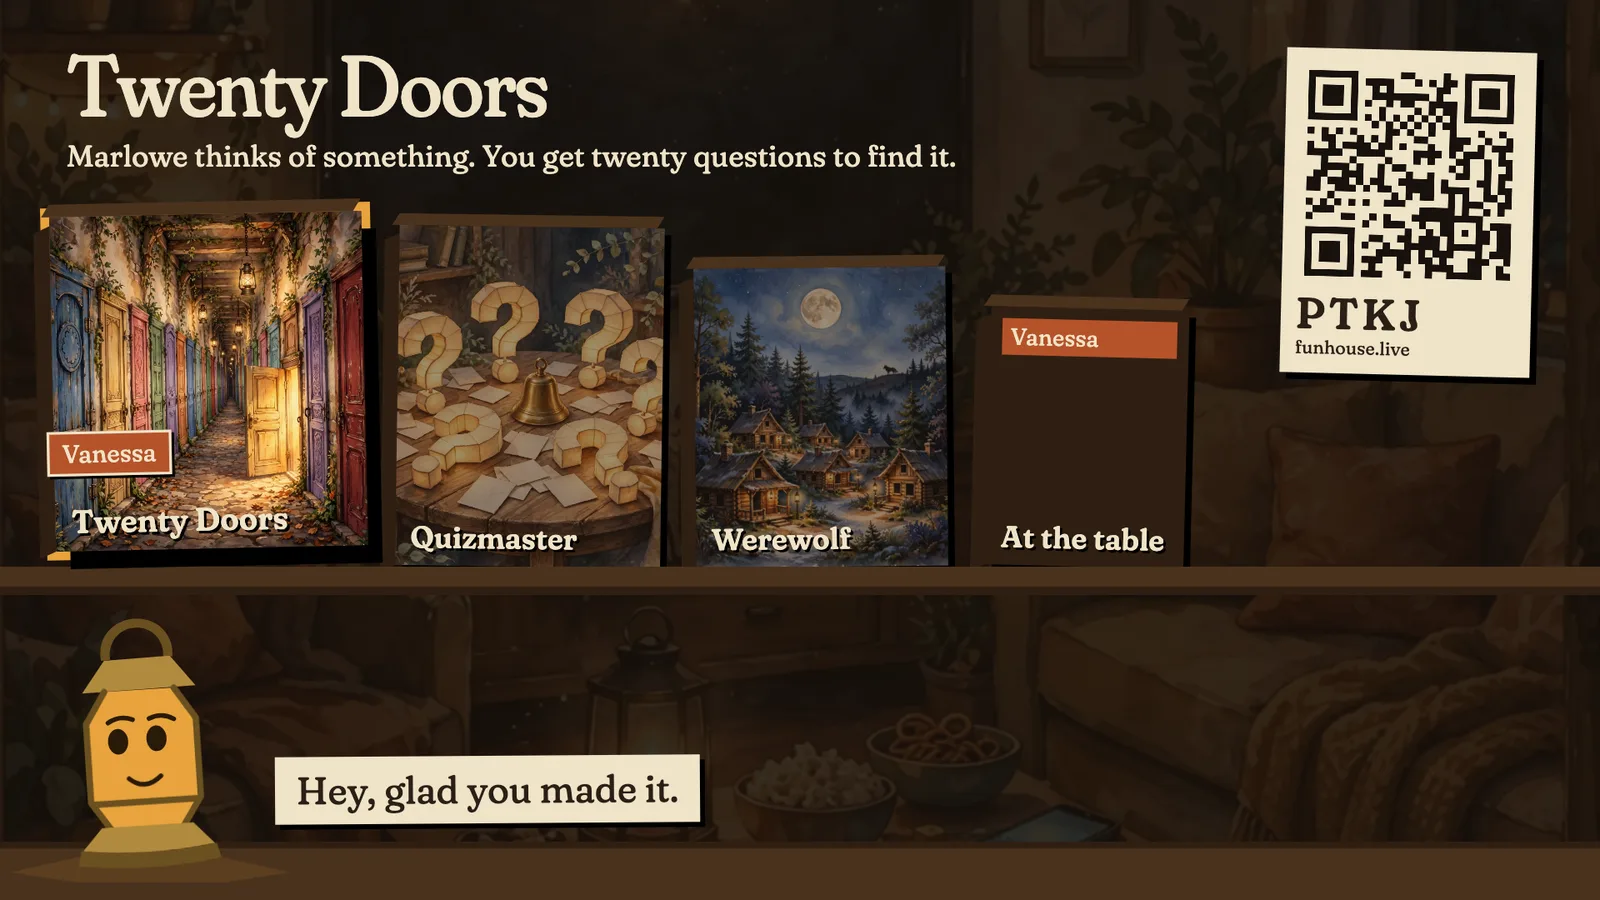
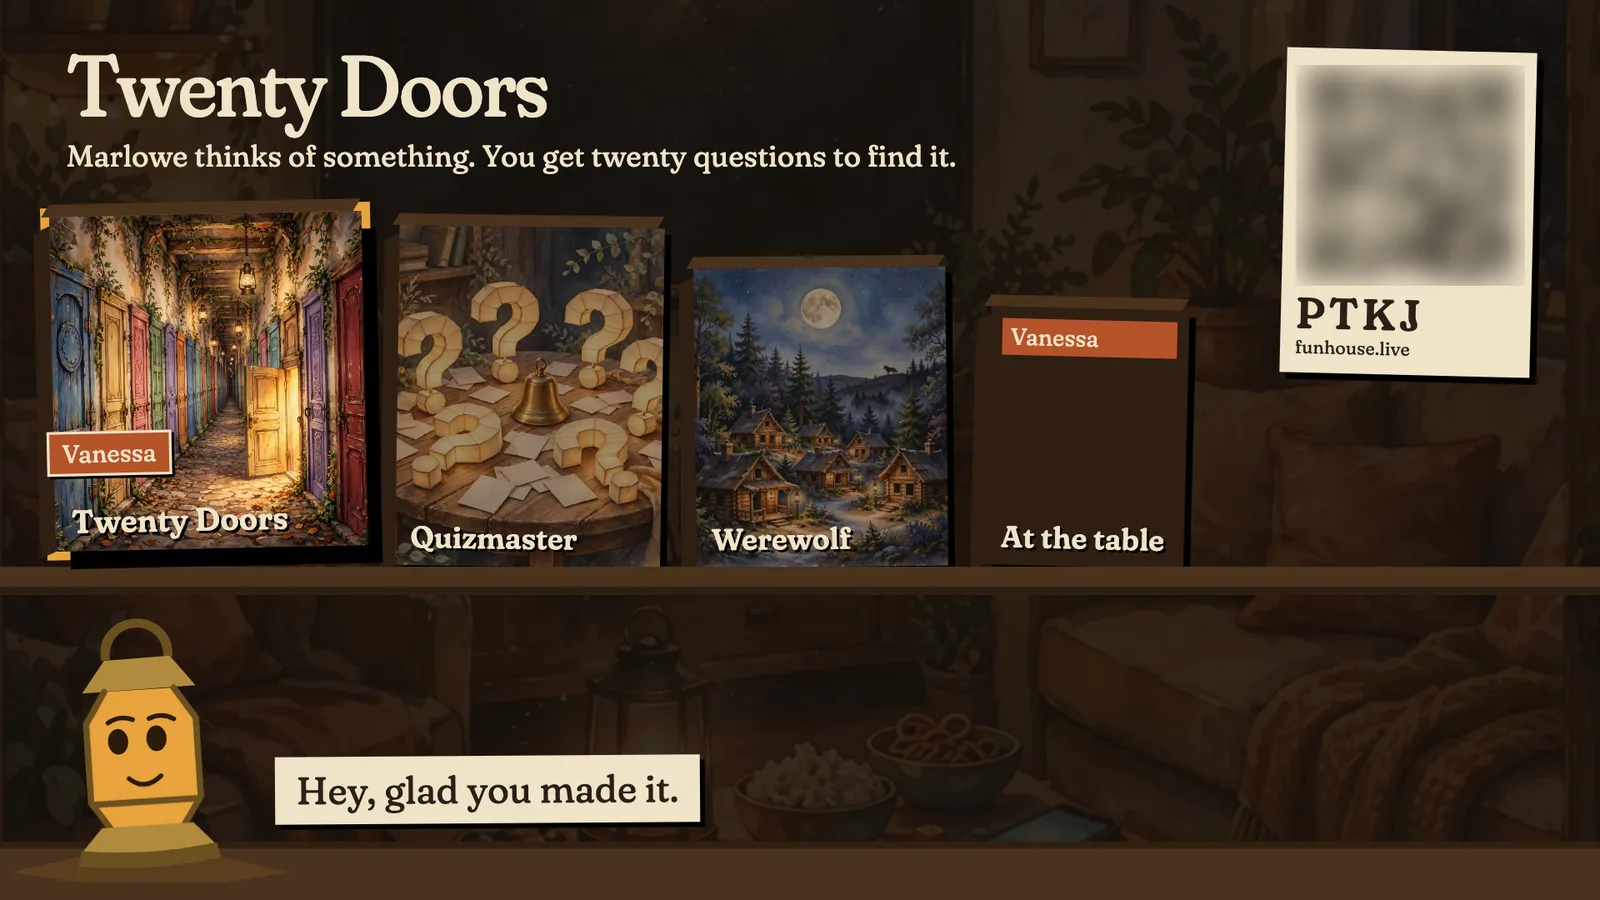
Make the TV screenshot safe to publish
The shot's QR code led to a room that would close, so it's now blurred. Core Image
reads the code from the original capture and finds nothing in the published file.

The shot contains Muse Image paintings, and Meta's terms bar distributing outputs
without their provenance signals, so it now carries the paintings' XMP marker
(IPTC DigitalSourceType, trainedAlgorithmicMedia), copied byte for byte and read
back from the file. The phone shot has no painting and needs none.

The shelf's tilts move from an inline style to the stylesheet, ahead of a stricter
content security policy.

Changed region(s): [[0.8125, 0.0622, 0.9688, 0.3422]]

diff --git a/landing/src/App.tsx b/landing/src/App.tsx
@@ -18,9 +18,6 @@ const MISSING_ROOM: string | null = new URLSearchParams(location.search).get("mi
 /** The room code a phone was just turned away from for being full, if any. */
 const FULL_ROOM: string | null = new URLSearchParams(location.search).get("full");
 
-/** The slight tilts the boxes sit at, like real boxes on a shelf. */
-const BOX_TILTS: number[] = [-1.2, 0.8, -0.6];
-
 /** What the mic does, in the host's words; the same line wherever it comes up. */
 const MIC_LINE: string = "Hold to talk. Until then, I hear nothing.";
 
@@ -121,8 +118,8 @@ export function App(): ReactElement {
                 <h2 id="games">On the shelf tonight</h2>
                 <p className="plain">Three games, and nobody sits out to run them. Even Werewolf's narrator is me.</p>
                 <ul className="shelf">
-                    {GAMES.map((game: GameBox, index: number) => (
-                        <li key={game.name} className="box" style={{ rotate: `${BOX_TILTS[index] ?? 0}deg` }}>
+                    {GAMES.map((game: GameBox) => (
+                        <li key={game.name} className="box">
                             <LatePicture src={game.art} alt={game.alt} width={1024} height={1024} />
                             <div className="box-label">
                                 <strong>{game.name}</strong>

diff --git a/landing/src/styles.css b/landing/src/styles.css
@@ -110,6 +110,9 @@
     .shelf-section { display: flex; flex-direction: column; gap: 14px; }
     .shelf { display: grid; grid-template-columns: 1.14fr 1fr 0.9fr; gap: 28px; align-items: end; margin-top: 24px; padding: 0 12px; }
     .box { position: relative; min-width: 0; background: var(--card); box-shadow: 8px 8px 0 #000; }
+    .box:nth-child(1) { rotate: -1.2deg; }
+    .box:nth-child(2) { rotate: 0.8deg; }
+    .box:nth-child(3) { rotate: -0.6deg; }
     .box img { width: 100%; aspect-ratio: 1; object-fit: cover; }
     .box-label { display: flex; flex-direction: column; gap: 4px; padding: 12px 16px 14px; background: var(--paper); color: var(--paper-ink); }
     .box-label strong { font-size: 24px; font-weight: 600; line-height: 1.1; }
